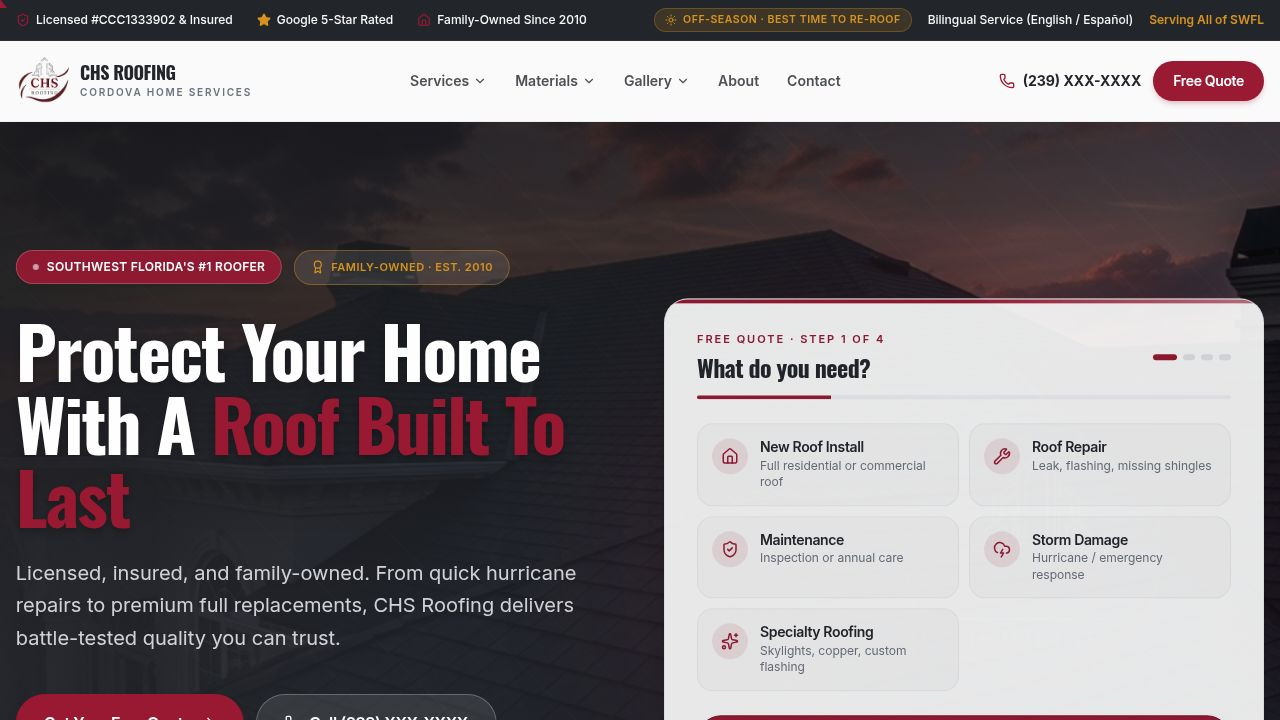
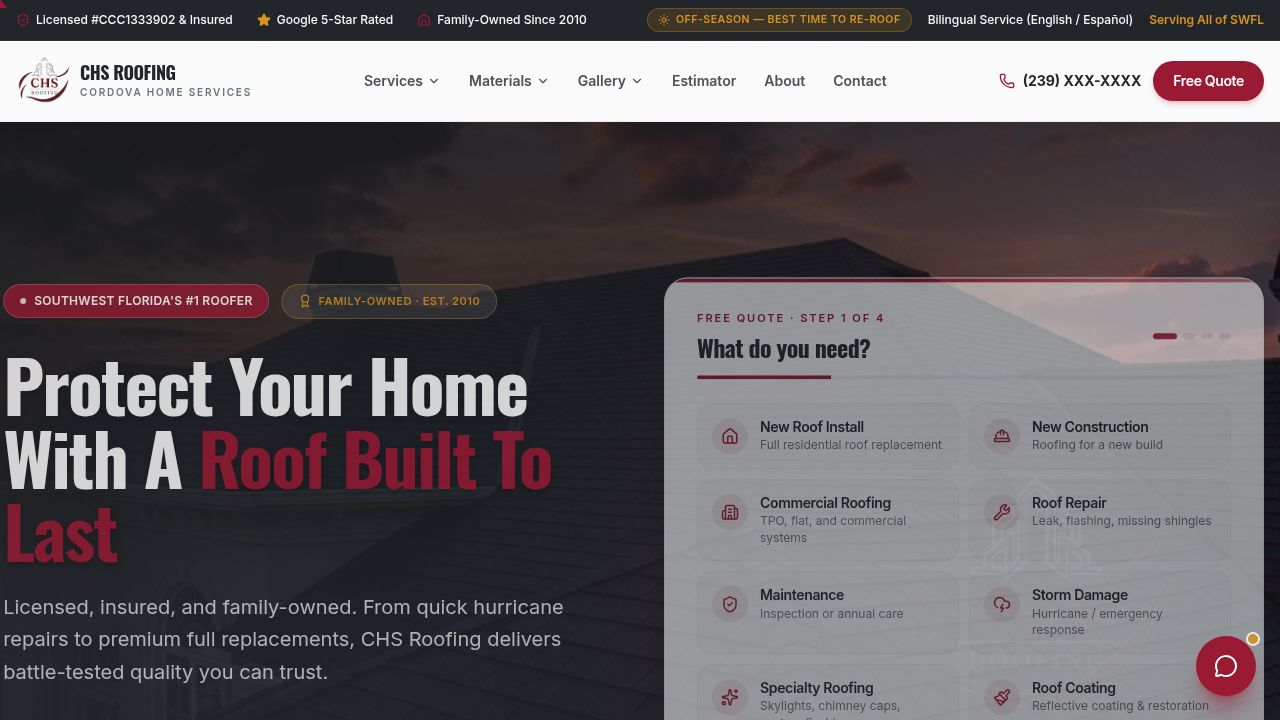
Update team photos and adjust image cropping for better display
Adjusted object-position to 'top' for team member images in About.tsx to correctly display portrait photos, specifically for Maria's updated profile picture.

Replit-Commit-Author: Agent
Replit-Commit-Session-Id: bea947e9-d829-4258-bb02-31679d91cb07
Replit-Commit-Checkpoint-Type: full_checkpoint
Replit-Commit-Event-Id: ed9d6a2c-6e37-4a12-bc45-f361b89c4288
Replit-Commit-Screenshot-Url: https://storage.googleapis.com/screenshot-production-us-central1/3b2ce3db-ca32-48b1-bfd7-ba43cdc9c16d/bea947e9-d829-4258-bb02-31679d91cb07/Y3BXZy0
Replit-Helium-Checkpoint-Created: true

diff --git a/artifacts/chs-roofing/src/pages/About.tsx b/artifacts/chs-roofing/src/pages/About.tsx
@@ -83,7 +83,7 @@ export default function About() {
                     loading="lazy"
                     src={m.image}
                     alt={m.name}
-                    className="w-full h-full object-cover group-hover:scale-105 transition-transform duration-700"
+                    className="w-full h-full object-cover object-top group-hover:scale-105 transition-transform duration-700"
                   />
                 </div>
                 <div className="p-4">
@@ -98,7 +98,7 @@ export default function About() {
             {TEAM.map(m => (
               <div key={`bio-${m.name}`} className="bg-card border border-border/60 rounded-2xl p-6 shadow-sm">
                 <div className="flex items-center gap-3 mb-3">
-                  <img loading="lazy" src={m.image} alt="" aria-hidden="true" className="w-12 h-12 rounded-full object-cover" />
+                  <img loading="lazy" src={m.image} alt="" aria-hidden="true" className="w-12 h-12 rounded-full object-cover object-top" />
                   <div>
                     <h3 className="font-display font-bold tracking-tight text-foreground">{m.name}</h3>
                     <p className="text-[11px] uppercase tracking-[0.15em] text-primary font-semibold">{m.role}</p>